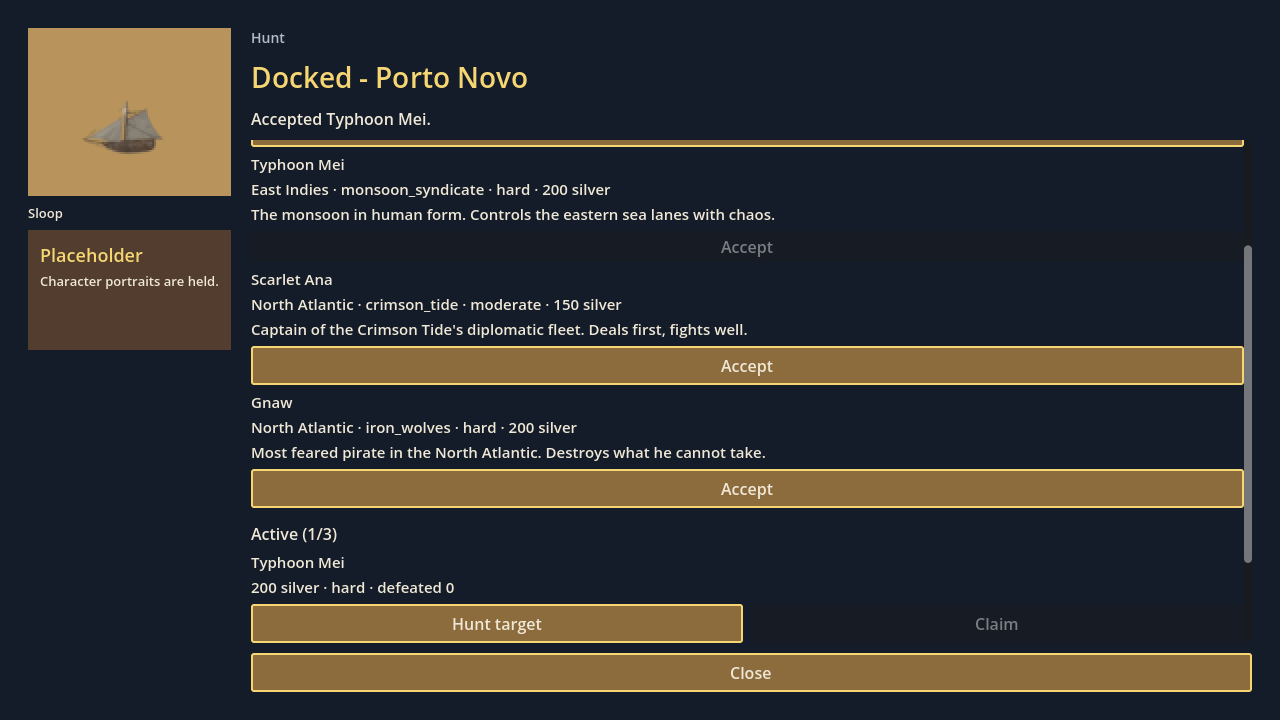
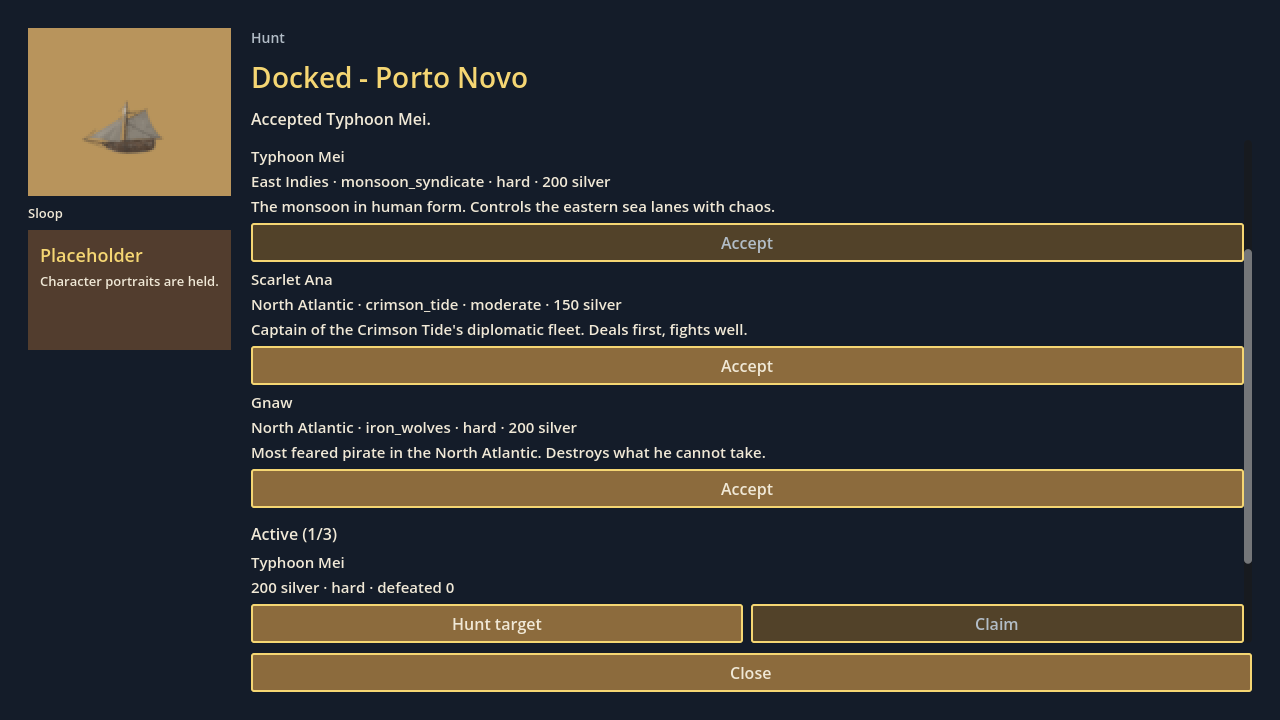
Fit Hunt on the shipyard port row without moving the panel.
The docked face is 12 px with no gap so Hide market, Shipyard, and Hunt stay on one line. chart-1280 and newgame-save change only in that button band.

Changed region(s): [[0.1875, 0.1833, 1.0, 0.3667], [0.5625, 0.825, 0.9688, 0.9167]]

diff --git a/README.md b/README.md
@@ -35,7 +35,7 @@ cargo build -p portlight-godot
 godot --path godot
 ```
 
-The title screen offers New game and Load game. New game lists the nine catalog captains and a custom captain (name, title, the four point pools, home region and port, trade bloc, pirate faction, mentor, and backstory). Catalog games and custom games both call `Session` with seed 1. Merchant named Ada is still the first chart: pick The Merchant and leave the name as Ada. Save sits with New game and Next day and writes a version-12 slot, then shows the slot line. Load lists those slots with the captain and the day. A loaded custom captain keeps the name, the type, the silver, and the day. Version 12 does not store the custom template, so prices and voyage modifiers after load are the merchant's, the same as Python. The chart draws the current port's `sail_lanes`, including warning and blocked lanes. Sail, Next day, and the market buttons call `Session`. They do not compute prices, days, or whether a lane is legal. While docked, Market, Contracts, Hire sailor, Provisions +5, Work, Shipyard, and Hunt sit on one row at 13 px, still 31 px tall, so the lanes below do not move. The row is hidden at sea. At sea, Hunt sits with Next day and Save. Work calls `Session::work` (3 to 5 silver; markets, provisions, wages, and reputation do not tick). A failure shows `SimError` text. A pending duel offers a stance fight (`thrust`, `slash`, `parry`) or auto-resolve. Next day still calls `Session::advance`, and the sim checks the stances. The outcome's standing change is shown and not applied. A sale logs the receipt and any contract summaries. `Session::board` is the contract board, and deck melee is `Session::resolve_boarding`. The lane list sits in a scroll pane beside the chart so the Sail buttons stay inside the 1280×720 window. The chart panel does not call `board`, `encounter_choice`, `naval_round`, or `resolve_boarding`. The encounter screen does call `encounter_choice`, `naval_round`, `resolve_boarding`, `fight`, `spare`, and `capture` through `Session`.
+The title screen offers New game and Load game. New game lists the nine catalog captains and a custom captain (name, title, the four point pools, home region and port, trade bloc, pirate faction, mentor, and backstory). Catalog games and custom games both call `Session` with seed 1. Merchant named Ada is still the first chart: pick The Merchant and leave the name as Ada. Save sits with New game and Next day and writes a version-12 slot, then shows the slot line. Load lists those slots with the captain and the day. A loaded custom captain keeps the name, the type, the silver, and the day. Version 12 does not store the custom template, so prices and voyage modifiers after load are the merchant's, the same as Python. The chart draws the current port's `sail_lanes`, including warning and blocked lanes. Sail, Next day, and the market buttons call `Session`. They do not compute prices, days, or whether a lane is legal. While docked, Market, Contracts, Hire sailor, Provisions +5, Work, Shipyard, and Hunt sit on one row at 12 px, still 31 px tall, so the lanes below do not move. The row is hidden at sea. At sea, Hunt sits with Next day and Save. Work calls `Session::work` (3 to 5 silver; markets, provisions, wages, and reputation do not tick). A failure shows `SimError` text. A pending duel offers a stance fight (`thrust`, `slash`, `parry`) or auto-resolve. Next day still calls `Session::advance`, and the sim checks the stances. The outcome's standing change is shown and not applied. A sale logs the receipt and any contract summaries. `Session::board` is the contract board, and deck melee is `Session::resolve_boarding`. The lane list sits in a scroll pane beside the chart so the Sail buttons stay inside the 1280×720 window. The chart panel does not call `board`, `encounter_choice`, `naval_round`, or `resolve_boarding`. The encounter screen does call `encounter_choice`, `naval_round`, `resolve_boarding`, `fight`, `spare`, and `capture` through `Session`.
 
 Chart water and the port marker are the approved landing plates. The generator still writes the catalog and any future placeholder:
 
